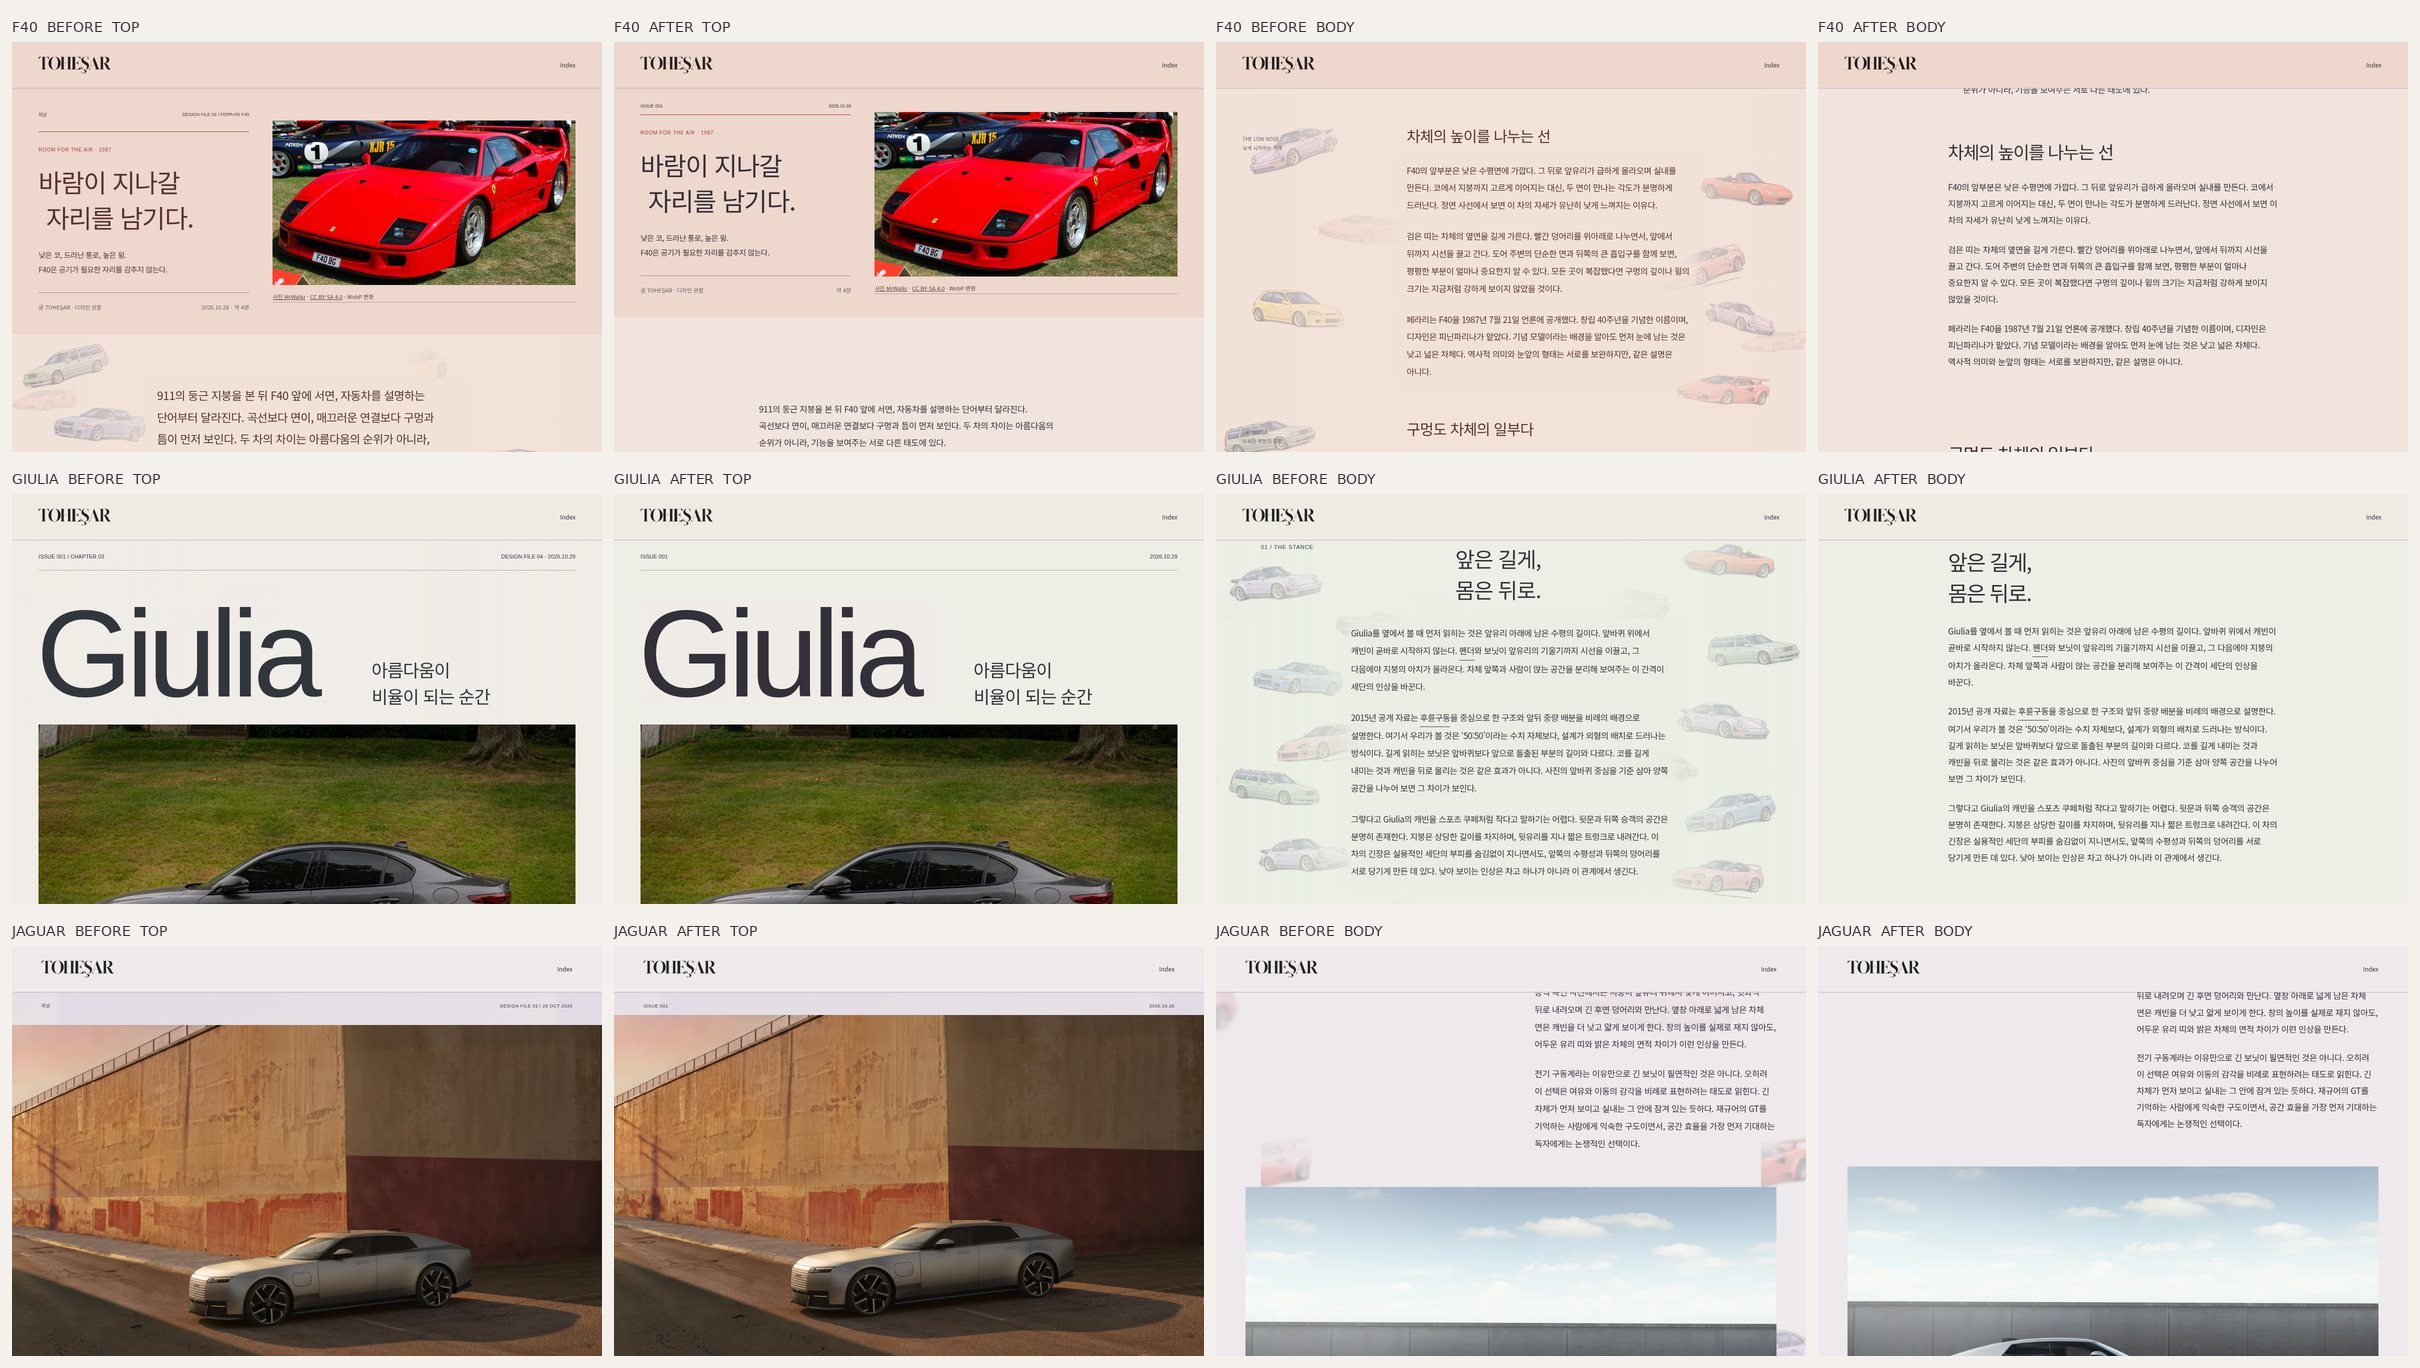
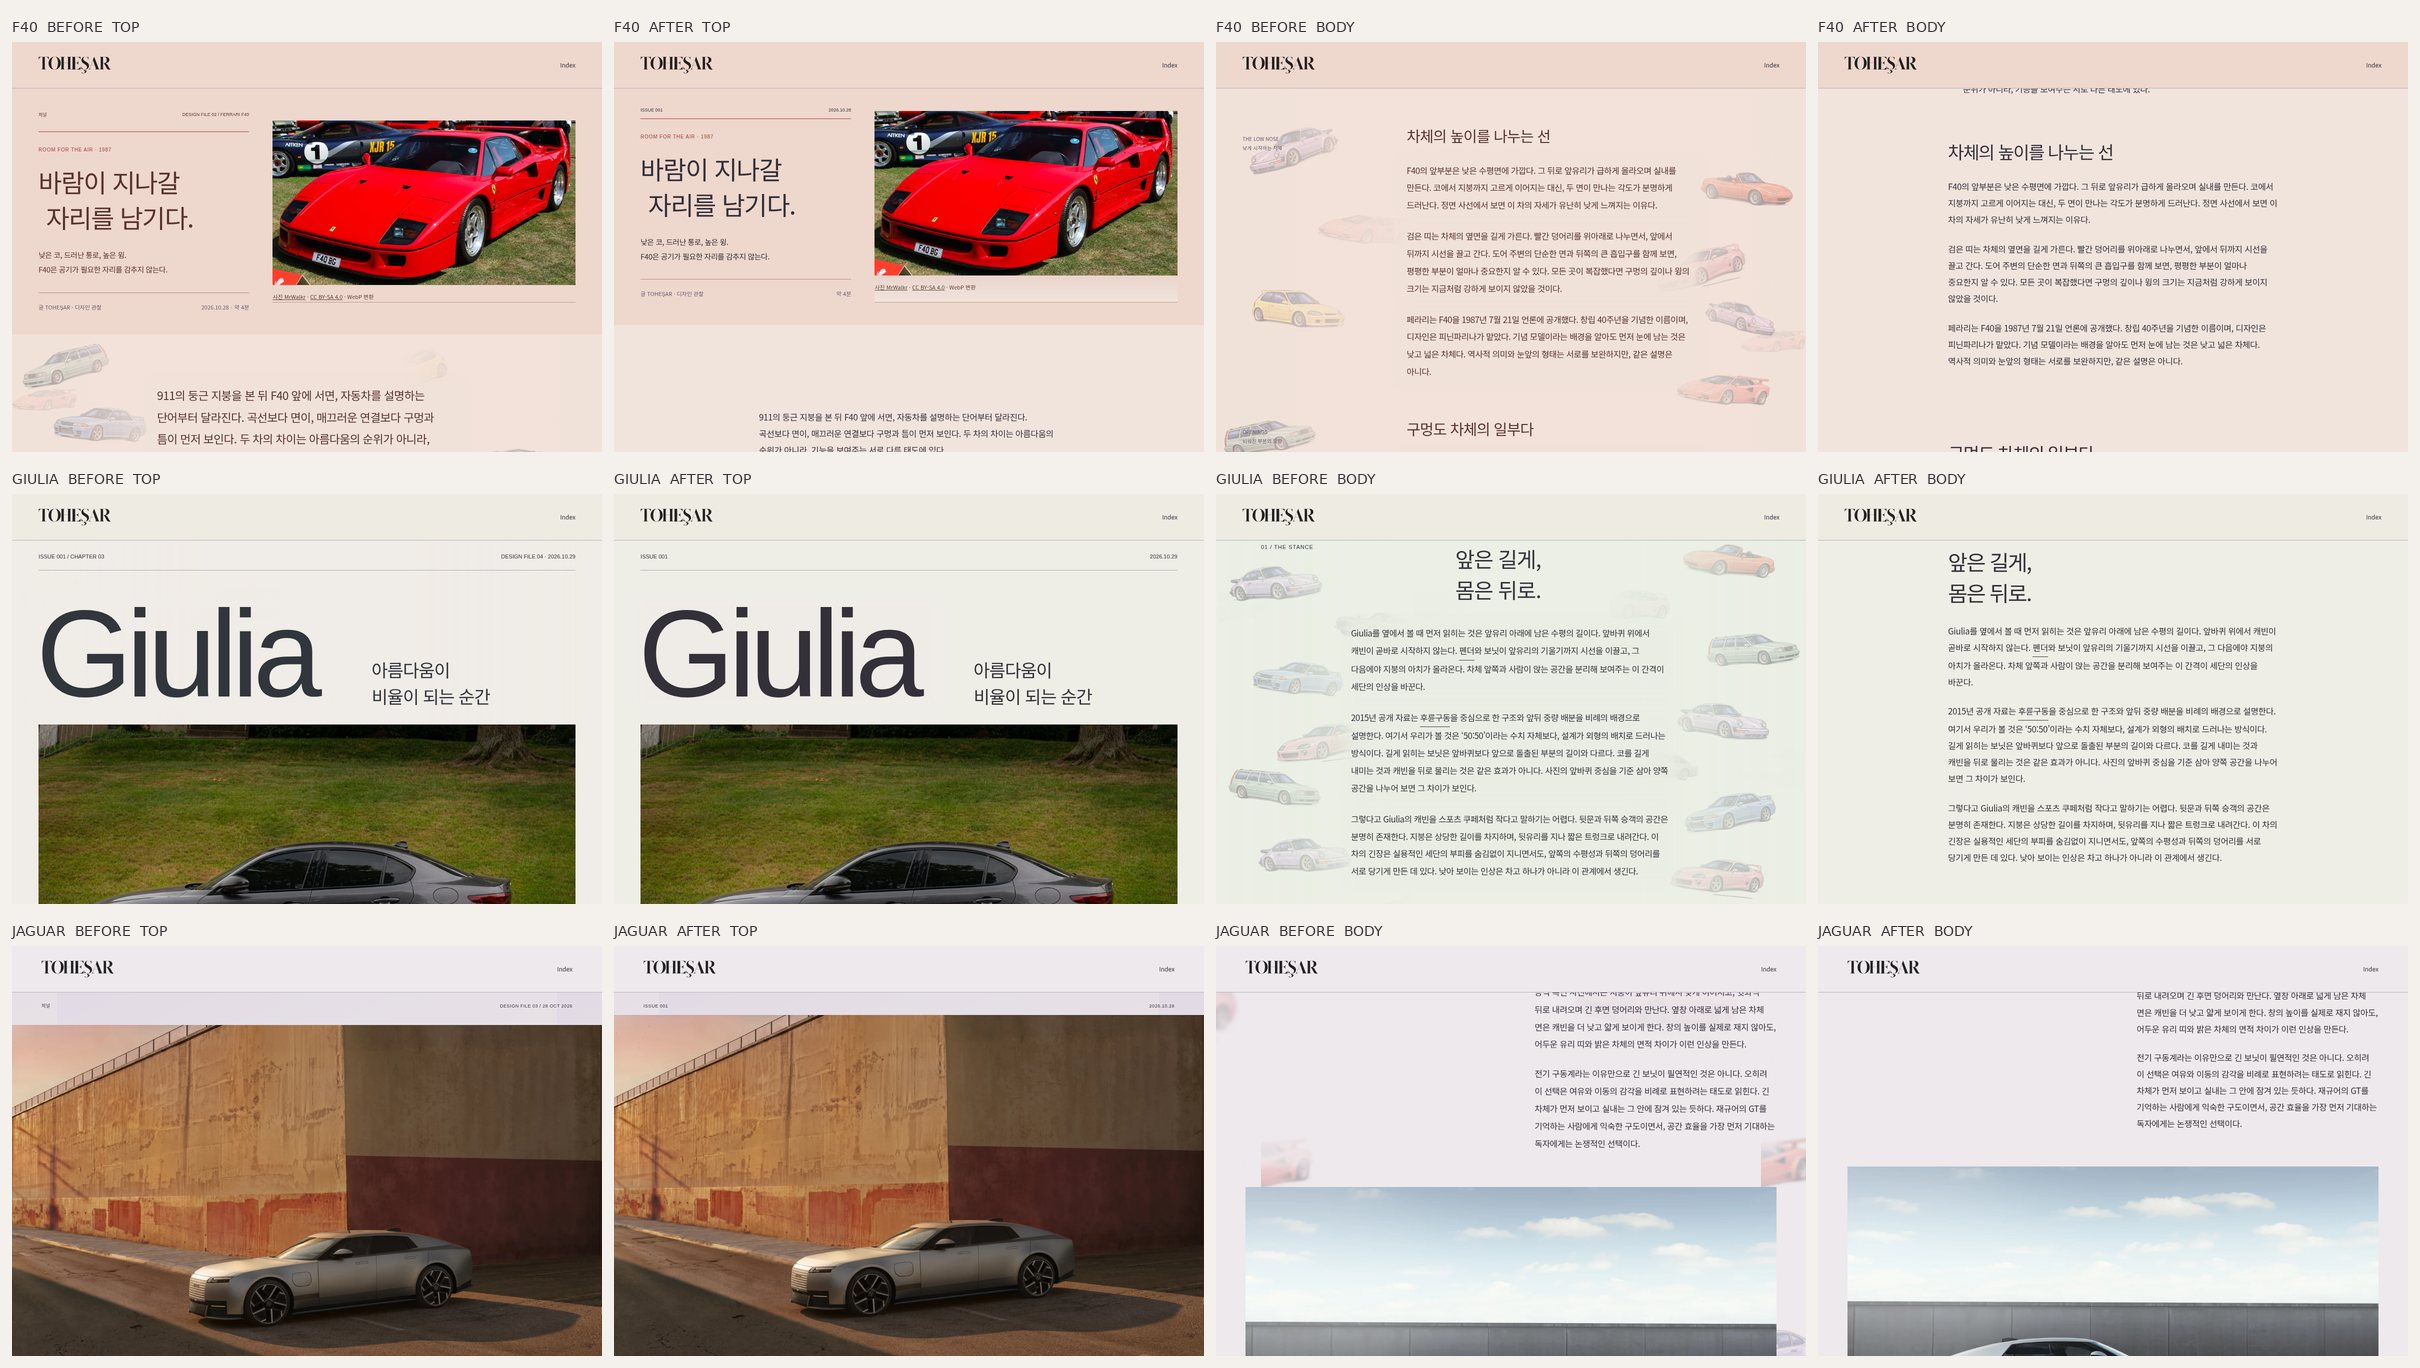
Tune two cinematic photo passages

diff --git a/journal/assets/editorial-refinement031.css b/journal/assets/editorial-refinement031.css
@@ -74,3 +74,18 @@
 .beauty014-proportion main :is(.surface-plate,.face-diptych) {background-image:none!important}
 :is(.beauty014-blade,.beauty014-proportion) .wallpaper-reading :is(.chapter-body,.story-opening,.reading-column)>p::before,
 .beauty014-language :is(.type-reading,.type-lead,.type-columns,.language-layout) p::before {display:none!important}
+/* Two photographic scenes: a warm paper edge and an unhurried, native passage. */
+.beauty014-blade .f40-hero figcaption {background:linear-gradient(180deg,#ead5cd,#f1e4dd);padding-bottom:20px}
+.beauty014-language .type-opening-paper {background:linear-gradient(180deg,#e9dfe0 0%,#eae3e6 48%,#eee9ea 100%)}
+/* Keep each composition still as the reader scrolls; the photograph itself is unchanged. */
+.beauty014-blade .f40-hero>img,.beauty014-language .type-hero>img {animation:none!important;transform:none!important}
+@media (prefers-reduced-motion:no-preference) {
+ :root[data-cinematic="f40"]::view-transition-group(journal-photo),
+ :root[data-cinematic="jaguar"]::view-transition-group(journal-photo) {
+  animation-duration:620ms;animation-timing-function:cubic-bezier(.25,.72,.25,1)
+ }
+ :root[data-cinematic="f40"]::view-transition-new(journal-title),
+ :root[data-cinematic="jaguar"]::view-transition-new(journal-title) {
+  animation-duration:420ms;animation-delay:110ms;animation-timing-function:cubic-bezier(.25,.72,.25,1)
+ }
+}

diff --git a/docs/editorial-031-review/RESEARCH.md b/docs/editorial-031-review/RESEARCH.md
@@ -9,3 +9,5 @@ Reviewed 3 November 2026, including phone-width browser renders:
 The baseline and revised Chromium captures use the same viewport, scroll target and reduced-motion setting. Comparison sheets show opening and body, before and after, for F40, Giulia and Jaguar. A 1180 × 820 viewport represents iPad landscape dimensions; it is not a hardware screenshot.
 
 Publication authority remains `journal/data/content-index.json` for article IDs and dates and `journal/data/issues.json` for published issue membership. Only ISSUE 001 is published (29 October 2026); F40 and Type 01 date from 28 October and Giulia from 29 October. The earlier DESIGN FILE numbers were display labels, not documented issue numbers.
+
+Additional film direction: [Art of the Title's *Dr. No* contact sheet](https://www.artofthetitle.com/title/dr-no/) was inspected for the controlled entrance and singular focal point in Maurice Binder's opening; its barrel, silhouette and action imagery are not reproduced. [Roger Ebert's *Skyfall* review](https://www.rogerebert.com/reviews/skyfall-2012) provides an actual film still with a precisely placed subject and light separated from shadow. [Art of the Title's *Skyfall* interview](https://www.artofthetitle.com/title/skyfall/) was also consulted for the sequence's visual pacing; it describes title design, not the film's cinematography. These observations informed only the F40 photograph's warm paper transition and the Jaguar photograph-to-title lighting, plus a measured native photo transition. Photographs stay unfiltered and their composition stays still on scroll. `film-scenes-390.jpg` compares this additional pass to the preceding editorial refinement, at the same 390 × 844 viewport.
